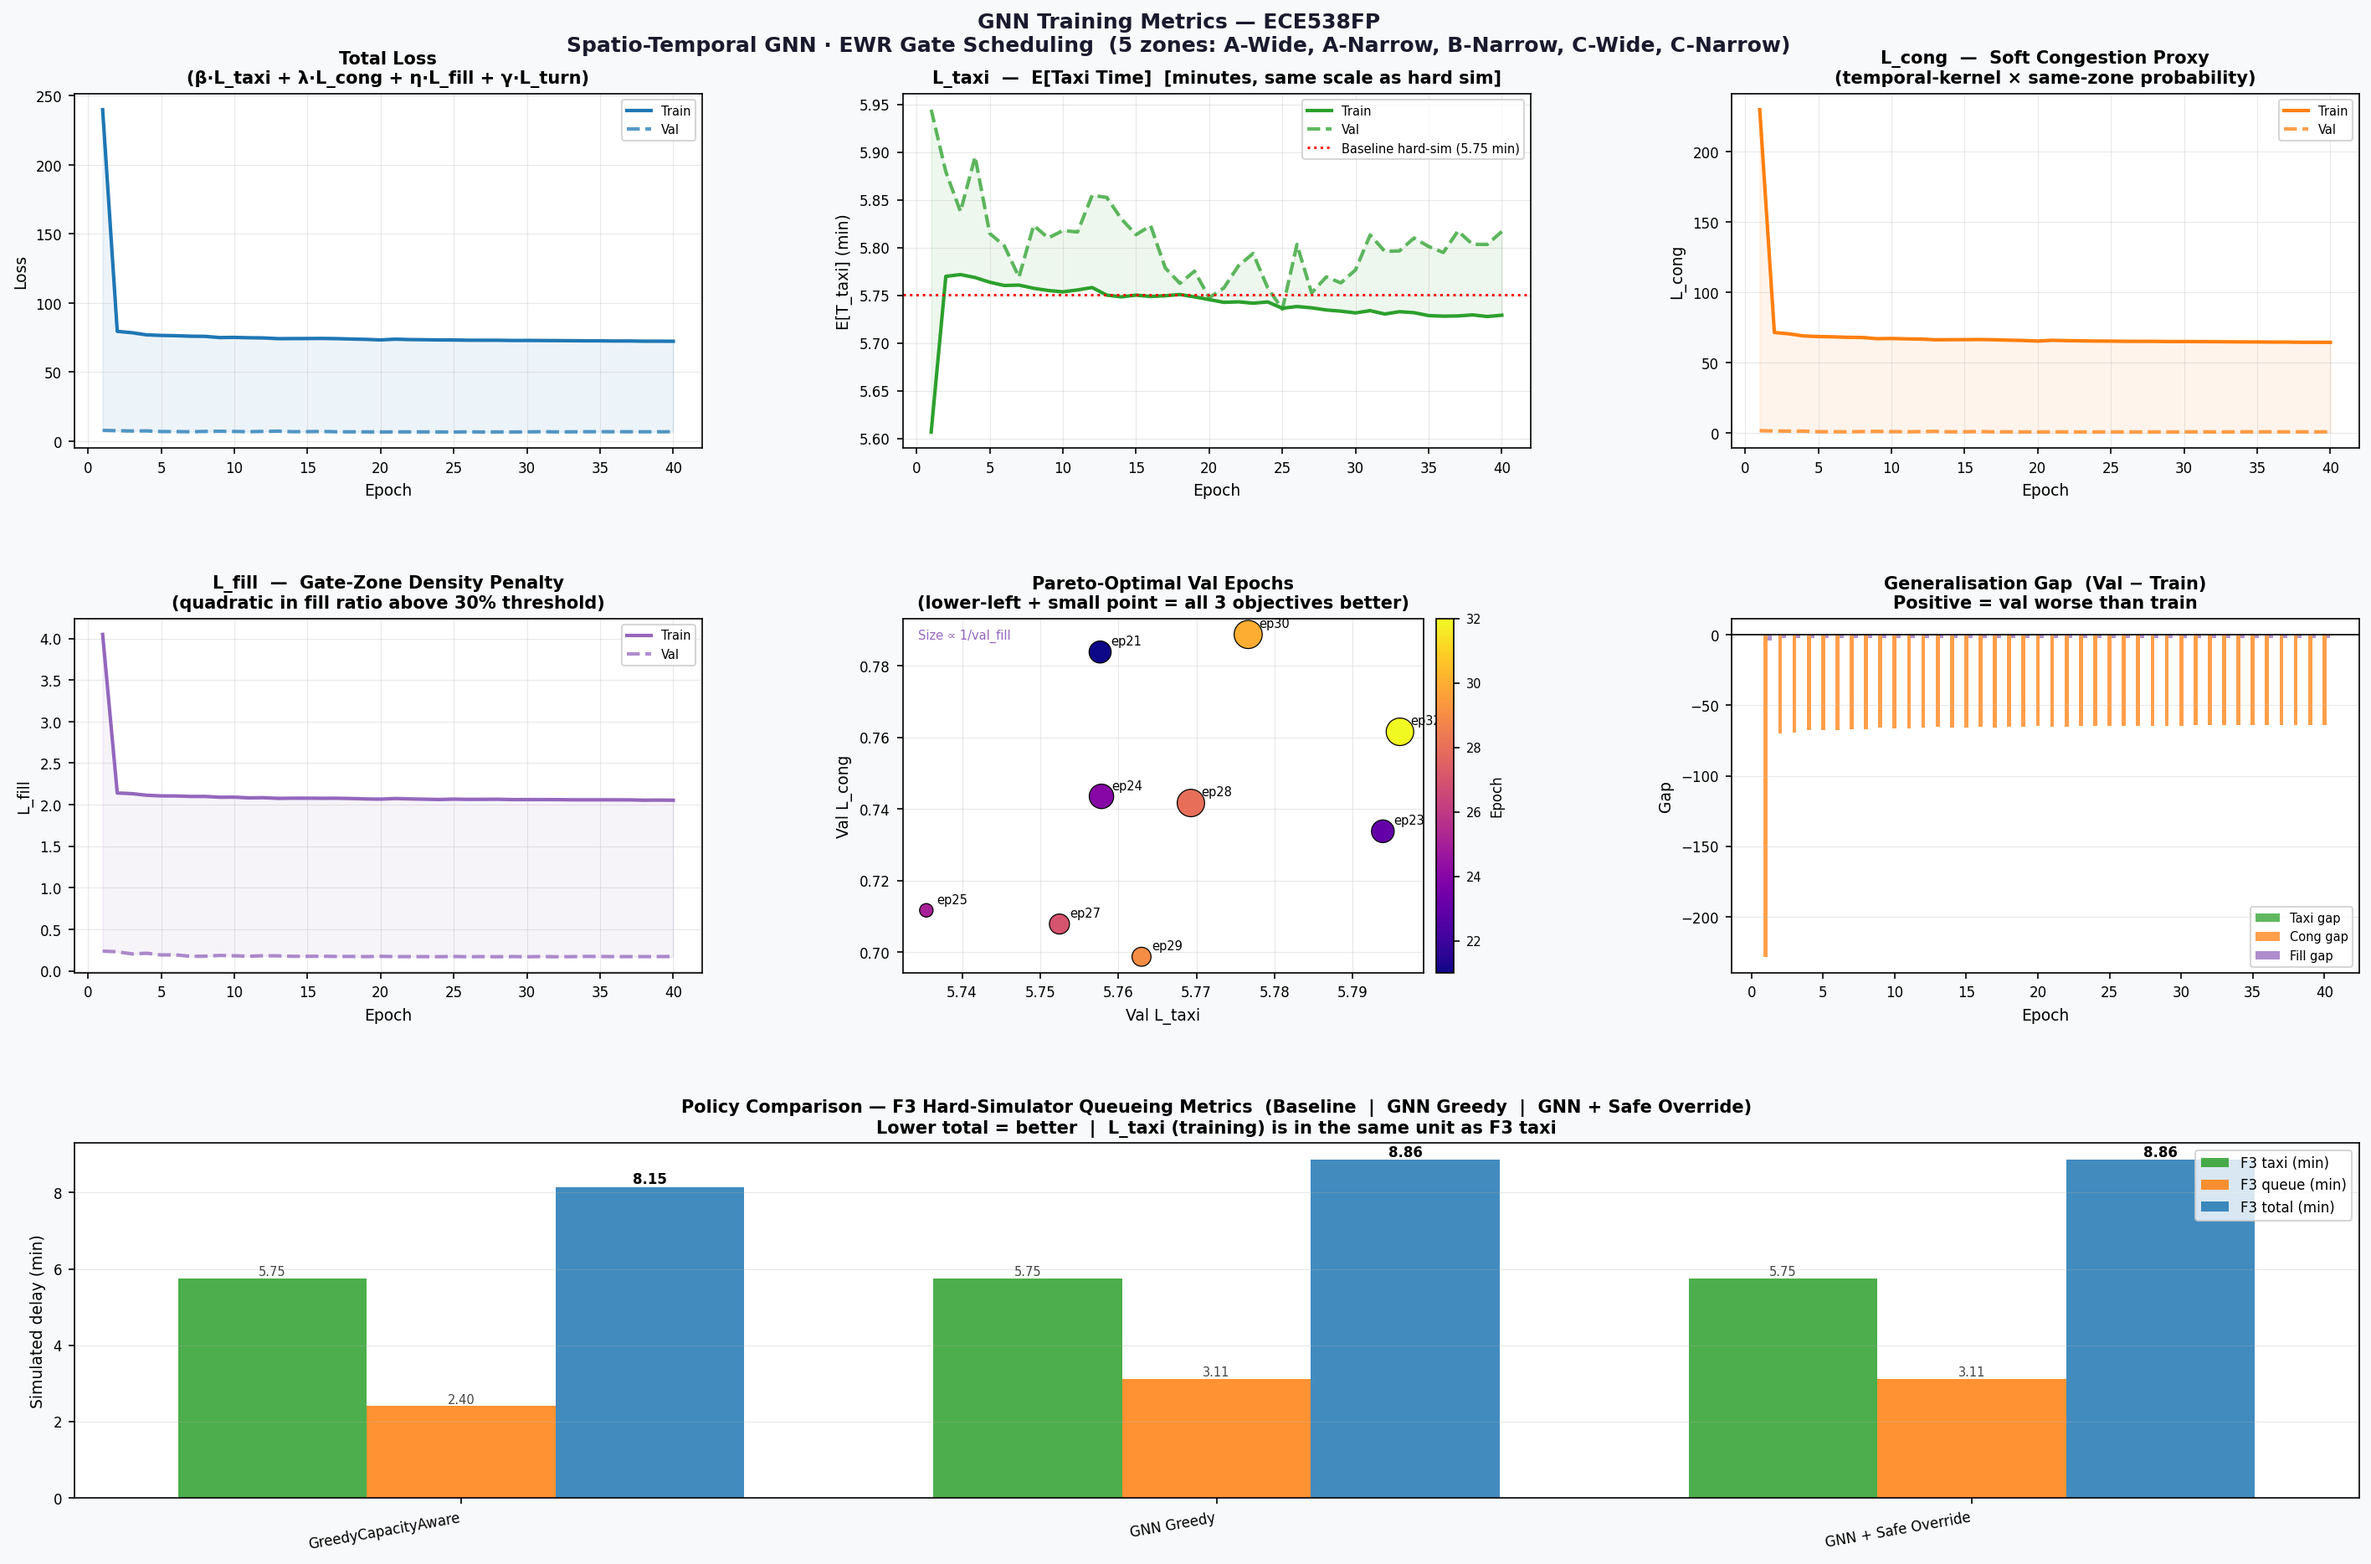
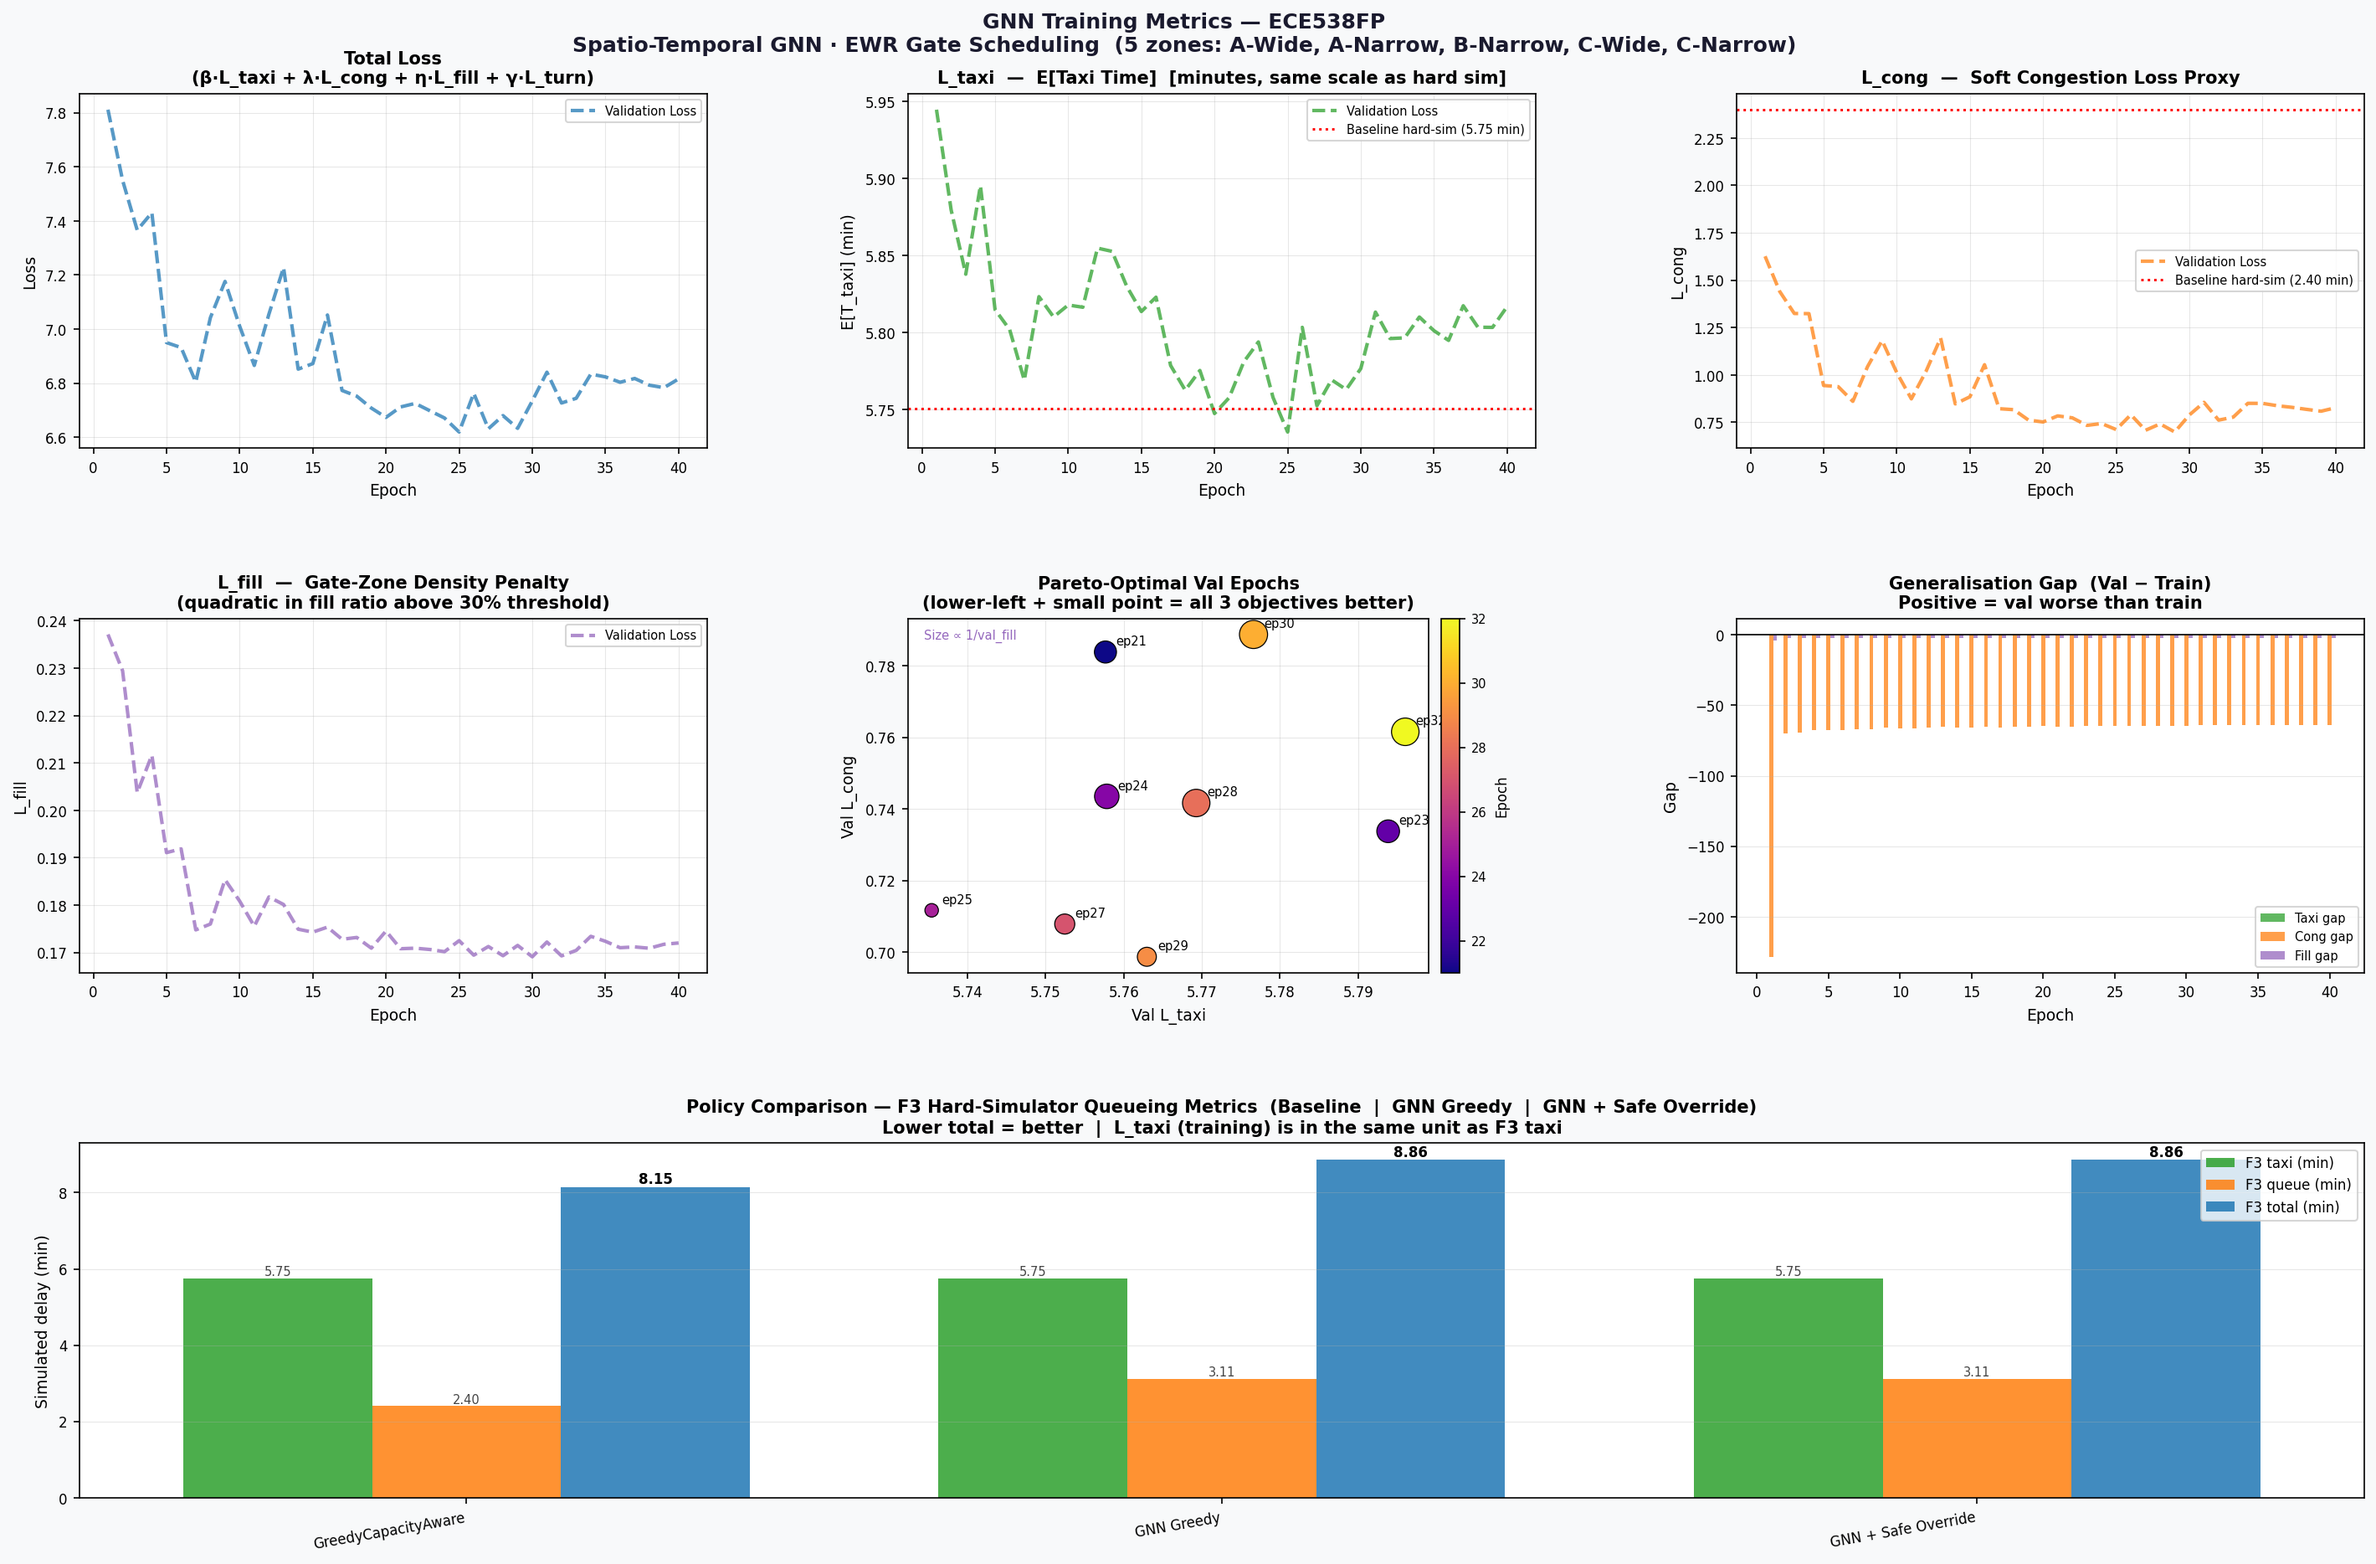
better visuals

diff --git a/src/plot_training.py b/src/plot_training.py
@@ -39,12 +39,10 @@ _C_CONG  = "#ff7f0e"   # orange — congestion
 _C_FILL  = "#9467bd"   # purple — fill density penalty
 
 
-def _loss_panel(ax, epochs, train_vals, val_vals, colour, title, ylabel):
+def _loss_panel(ax, epochs, val_vals, colour, title, ylabel):
     """Shared helper: train/val curve with shaded gap."""
-    ax.plot(epochs, train_vals, color=colour, lw=2,       label="Train")
     ax.plot(epochs, val_vals,   color=colour, lw=2, ls="--",
-            alpha=0.75, label="Val")
-    ax.fill_between(epochs, train_vals, val_vals, alpha=0.08, color=colour)
+            alpha=0.75, label="Validation Loss")
     ax.set_title(title, fontweight="bold", fontsize=10)
     ax.set_xlabel("Epoch", fontsize=9)
     ax.set_ylabel(ylabel, fontsize=9)
@@ -87,7 +85,7 @@ def main():
     # ── Panel A: Total loss ──────────────────────────────────────────────────
     _loss_panel(
         ax_loss, epochs,
-        hist["train_loss"], hist["val_loss"],
+        hist["val_loss"],
         _C_LOSS,
         "Total Loss\n(β·L_taxi + λ·L_cong + η·L_fill + γ·L_turn)",
         "Loss",
@@ -96,7 +94,7 @@ def main():
     # ── Panel B: L_taxi ──────────────────────────────────────────────────────
     _loss_panel(
         ax_taxi, epochs,
-        hist["train_taxi"], hist["val_taxi"],
+        hist["val_taxi"],
         _C_TAXI,
         "L_taxi  —  E[Taxi Time]  [minutes, same scale as hard sim]",
         "E[T_taxi] (min)",
@@ -119,18 +117,32 @@ def main():
     # ── Panel C: L_cong ──────────────────────────────────────────────────────
     _loss_panel(
         ax_cong, epochs,
-        hist["train_cong"], hist["val_cong"],
+        hist["val_cong"],
         _C_CONG,
-        "L_cong  —  Soft Congestion Proxy\n(temporal-kernel × same-zone probability)",
+        "L_cong  —  Soft Congestion Loss Proxy",
         "L_cong",
     )
+    # Draw hard-sim baseline reference line if policy_comparison.csv exists
+    if COMP_CSV.exists():
+        try:
+            _comp = pd.read_csv(COMP_CSV)
+            _base_row = _comp[_comp["policy"].str.contains("Greedy", case=False)]
+            if not _base_row.empty:
+                _base_taxi = float(_base_row.iloc[0]["f3_queue_min"])
+                ax_cong.axhline(
+                    _base_taxi, color="red", ls=":", lw=1.4,
+                    label=f"Baseline hard-sim ({_base_taxi:.2f} min)",
+                )
+                ax_cong.legend(fontsize=7)
+        except Exception:
+            pass
 
     # ── Panel D: L_fill ──────────────────────────────────────────────────────
     has_fill = "train_fill" in hist.columns and "val_fill" in hist.columns
     if has_fill:
         _loss_panel(
             ax_fill, epochs,
-            hist["train_fill"], hist["val_fill"],
+            hist["val_fill"],
             _C_FILL,
             "L_fill  —  Gate-Zone Density Penalty\n(quadratic in fill ratio above 30% threshold)",
             "L_fill",
